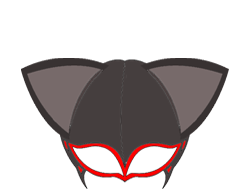
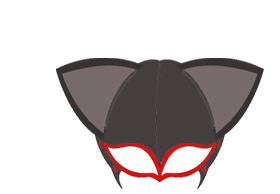
Many Fixes on Last Commits
Many Fixes on Last Commits

Changed region(s): [[0.0913, 0.2784, 1.0, 0.9897], [0.6087, 0.3093, 0.6696, 0.3711], [0.7, 0.4639, 0.7304, 0.4948]]

diff --git a/BondageClub/Screens/Room/Empty/Empty.js b/BondageClub/Screens/Room/Empty/Empty.js
@@ -1,6 +1,7 @@
 "use strict";
 var EmptyBackground = "MainHall";
 var EmptyCharacter = [];
+var EmptyCharacterOffset = 0;
 
 // When used in struggle mode
 function EmptyStruggleSuccess() { return (!Player.IsRestrained() && Player.CanTalk() && (CurrentTime < ManagementTimer)) }
@@ -14,13 +15,13 @@ function EmptyLoad() {
 // Run the empty room screen
 function EmptyRun() {
 	for (var C = 0; C < EmptyCharacter.length; C++)
-		DrawCharacter(EmptyCharacter[C], 1000 - EmptyCharacter.length * 250 + C * 500, 0, 1);
+		DrawCharacter(EmptyCharacter[C], 1000 - EmptyCharacter.length * 250 + C * 500 + EmptyCharacterOffset, 0, 1);
 }
 
 // When the user clicks in the empty room screen
 function EmptyClick() {
 	for (var C = 0; C < EmptyCharacter.length; C++)
-		if ((MouseX >= 1000 - EmptyCharacter.length * 250 + C * 500) && (MouseX < 1500 - EmptyCharacter.length * 250 + C * 500) && (MouseY >= 0) && (MouseY < 1000)) 
+		if ((MouseX >= 1000 - EmptyCharacter.length * 250 + C * 500 + EmptyCharacterOffset) && (MouseX < 1500 - EmptyCharacter.length * 250 + C * 500 + EmptyCharacterOffset) && (MouseY >= 0) && (MouseY < 1000)) 
 			CharacterSetCurrent(EmptyCharacter[C]);
 }
 
@@ -45,10 +46,13 @@ function EmptyShopRelease() {
 
 // Release the player from the item applied by the shop vendor
 function EmptyShopEnd(Sold) {
+	Sold = (Sold == "true");
 	ShopVendor.Stage = (Sold) ? "33" : "34";
-	ShopVendor.CurrentDialog = DialogFind(CurrentCharacter, (Sold) ? "ItemSold" : "ItemNotSold").replace("MoneyAmount", ShopDemoItemPayment.toString());
 	if (Sold) CharacterChangeMoney(Player, ShopDemoItemPayment);
 	DialogLeave();
-	CommonSetScreen("Room", "Empty");
+	CommonSetScreen("Room", "Shop");
 	CharacterSetCurrent(ShopVendor);
+	ShopVendor.CurrentDialog = DialogFind(ShopVendor, (Sold) ? "ItemSold" : "ItemNotSold").replace("MoneyAmount", ShopDemoItemPayment.toString());
+	CharacterAppearanceFullRandom(ShopCustomer, false);
+	CharacterRandomName(ShopCustomer)
 }

diff --git a/BondageClub/index.html b/BondageClub/index.html
@@ -109,9 +109,10 @@
 	OK - Kidnappers cannot use feet/legs items if player is kneeling (bitchsuit)
 	OK - Collaring an NPC no longer removes your own collar
 	OK - New mouth, ring gag + dazed eyes
-	TEST - New Vibe Panties
-	TEST - Two new masks in glass slot
-	TEST - Go help shop vendor to demonstrate items
+	OK - New Vibe Panties
+	OK - Two new masks in glass slot
+	OK - Go help shop vendor to demonstrate items
+	OK - New music
 	TO DO - Multiplayer "kick-out" without banning
 
 	Maid chores:
@@ -141,7 +142,7 @@
 // When the code is loaded, we start the game engine
 window.onload = function() {
 	//CheatImport();
-	//ServerURL = "https://bondage-club-server.herokuapp.com/";
+	ServerURL = "https://bondage-club-server.herokuapp.com/";
 	CommonIsMobile = CommonDetectMobile();
 	TranslationLoad();
 	DrawLoad();

diff --git a/BondageClub/Screens/Room/Management/Management.js b/BondageClub/Screens/Room/Management/Management.js
@@ -397,6 +397,7 @@ function ManagementActivityStruggleStart() {
 	ManagementTimer = CurrentTime + 60000;
 	DialogLeave();
 	EmptyBackground = "MainHall";
+	EmptyCharacterOffset = 0;
 	EmptyCharacter = [];
 	EmptyCharacter.push(Player);
 	EmptyCharacter.push(ManagementRandomGirl);

diff --git a/BondageClub/Screens/Room/Shop/Shop.js b/BondageClub/Screens/Room/Shop/Shop.js
@@ -228,6 +228,7 @@ function ShopJobRestrain() {
 function ShopJobStart() {
 	DialogLeave();
 	EmptyBackground = "Shop";
+	EmptyCharacterOffset = -500;
 	EmptyCharacter = [];
 	EmptyCharacter.push(Player);
 	EmptyCharacter.push(ShopCustomer);
